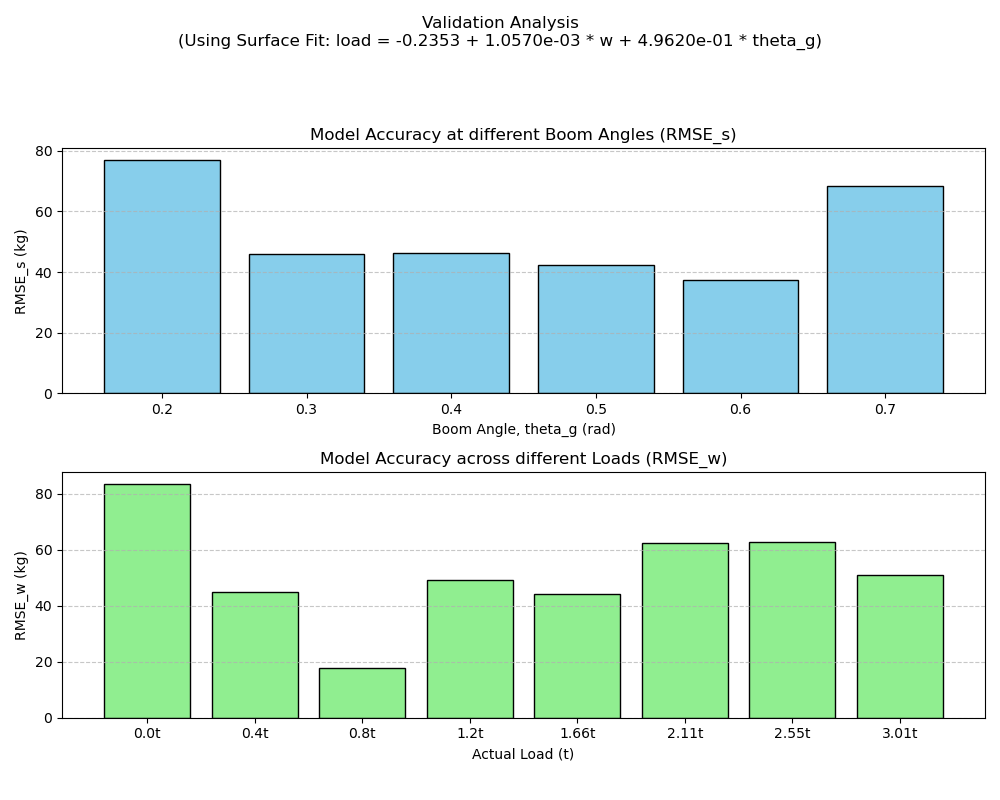
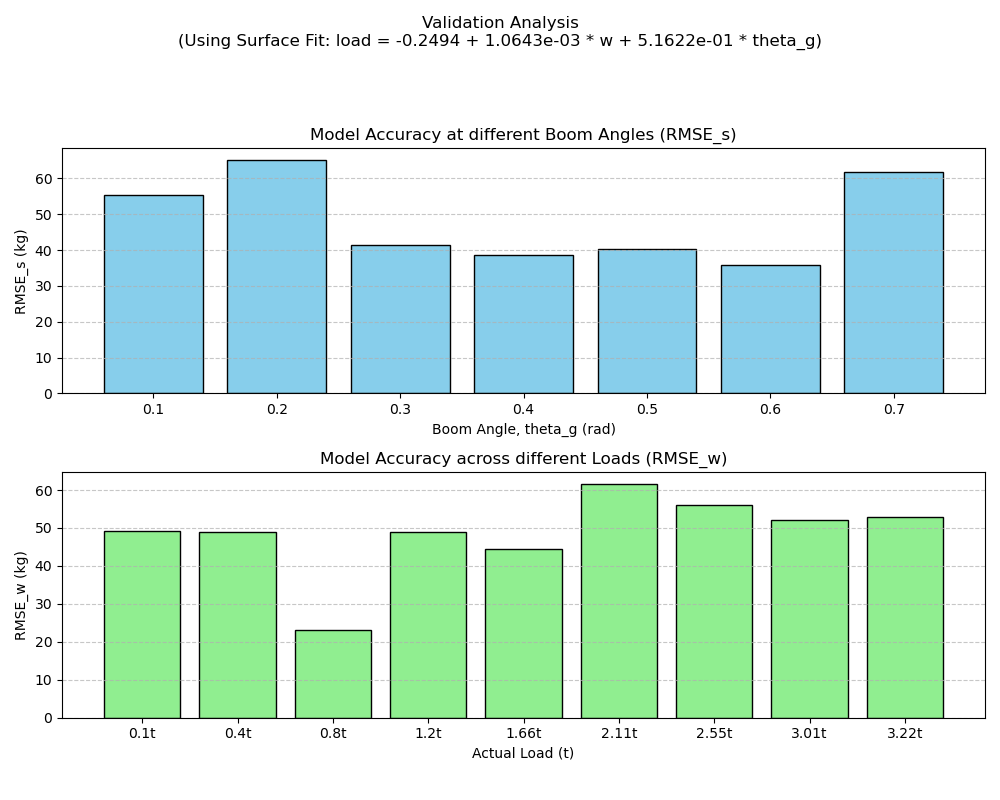
Merge branch 'backup'

diff --git a/src/load_estimation/scripts/load_estimate.py b/src/load_estimation/scripts/load_estimate.py
@@ -35,10 +35,15 @@ class LoadEstimationNode(Node):
         self.Lgi = np.sqrt(LgiY**2 + LgiX**2)         # (m)  
         self.IGO = np.pi - (np.arctan2(LgiY, LgiX))   # (rad)
 
+        # empty bucket pressure
+        self.c1 = 1699
+        self.c2 = 4023
+        self.c3 = 413.3
+
         # compensator
-        self.k1 = -0.2353               # (ton)
-        self.k2 = 1.0570e-03            # constant
-        self.k3 = 4.4962e-01            # (ton/rad)
+        self.k1 = -0.2494               # (ton)
+        self.k2 = 1.0643e-03            # constant
+        self.k3 = 5.1622e-01            # (ton/rad)
 
         # pressure predict model    
         self.est_time = 1.0             # duration for estimate (s)
@@ -209,10 +214,9 @@ class LoadEstimationNode(Node):
 
     def calculate_load_mass(self, pbf, prf, theta_a):
         # empty bucket offset (sensor val)
-        pb_offset = 1699*(theta_a-self.theta_g_offset) + 4023
-        pr_offset = 413.3
+        pb_offset = self.c1*(theta_a-self.theta_g_offset) + self.c2
         pb = pbf - pb_offset
-        pr = prf - pr_offset
+        pr = prf - self.c3
 
         # geometry
         Lih = np.sqrt(self.Lgh**2 + self.Lgi**2 - 2 * self.Lgh * self.Lgi * np.cos(theta_a + self.IGO))
@@ -234,7 +238,7 @@ class LoadEstimationNode(Node):
             if self.srv_in_progress:
                 response.success = False
                 response.message = "Service is already busy. Please try again later."
-                self.get_logger().warn("Received a service call while another was in progress.")
+                # self.get_logger().warn("Received a service call while another was in progress.")
                 return response
             self.srv_in_progress = True
 
@@ -245,14 +249,14 @@ class LoadEstimationNode(Node):
             # --- Part 1: Wait for static & downward condition ---
             with self.srv_lock:
                 self.theta_g_at_call = self.theta_g_raw
-                self.get_logger().info(f"Service called. Waiting for static & downward condition. Initial theta_g: {self.theta_g_at_call:.3f}")
+                # self.get_logger().info(f"Service called. Waiting for static & downward condition. Initial theta_g: {self.theta_g_at_call:.3f}")
                 
                 wait_successful = self.srv_wait_condition.wait(timeout=self.srv_timeout)
                 
                 if not wait_successful:
                     raise Exception(f"Timeout: Static conditions not met within {self.srv_timeout} seconds.")
 
-            self.get_logger().info(f"Conditions met: Static (vel={self.vel_a:.4f}, acc={self.acc_a:.4f}), Downward (theta_g={self.theta_g_raw:.3f} < {self.theta_g_at_call:.3f})")
+            # self.get_logger().info(f"Conditions met: Static (vel={self.vel_a:.4f}, acc={self.acc_a:.4f}), Downward (theta_g={self.theta_g_raw:.3f} < {self.theta_g_at_call:.3f})")
 
             # --- Part 2: Estimate pressure over a duration ---
             with self.srv_lock:
@@ -285,7 +289,7 @@ class LoadEstimationNode(Node):
         except Exception as e:
             response.success = False
             response.message = f'{str(e)}'
-            self.get_logger().error(f"Load estimation failed: {str(e)}")
+            # self.get_logger().error(f"Load estimation failed: {str(e)}")
         finally:
             # reset for the next service call
             with self.srv_lock:

diff --git a/readme.md b/readme.md
@@ -55,15 +55,17 @@ The weight of the loader's arm and bucket assembly exerts force on the hydraulic
 
 The offset models are:
 
-`p_b_offset = 1699 * θ_g + 4023`
+`p_b_offset = c1 * θ_g + c2`
 
-`p_r_offset = 413.3`
+`p_r_offset = c3`
 
 | Parameter | Value | Description |
 | :--- | :--- | :--- |
-| `p_b_offset` | - | The pressure offset for the bottom side of the cylinders (ADC value). |
-| `p_r_offset` | `413.3` | The pressure offset for the rod side of the cylinders (ADC value). |
+| `c1` | `1699` | Coefficient for the boom angle in the `p_b_offset` model. |
+| `c2` | `4023` | Intercept for the `p_b_offset` model (ADC value). |
+| `c3` | `413.3` | Constant value for the `p_r_offset` model (ADC value). |
 | `θ_g` | - | The boom angle from the encoder (rad). |
+
 
 ### Simple Beam Model
 
@@ -107,9 +109,9 @@ The final load is calculated as:
 | :--- | :--- | :--- |
 | `w_simple` | - | The initial load estimate from the Simple Beam Model (kg). |
 | `θ_g` | - | The raw boom angle from the encoder (rad). |
-| `k1` | `-0.2353` | Intercept term (ton). |
-| `k2` | `1.057e-03` | Coefficient for the simple model's output. |
-| `k3` | `0.4962` | Coefficient for the boom angle. |
+| `k1` | `-0.2494` | Intercept term (ton). |
+| `k2` | `1.0643e-03` | Coefficient for the simple model's output. |
+| `k3` | `5.1622e-01` | Coefficient for the boom angle. |
 
 ## Results
 
